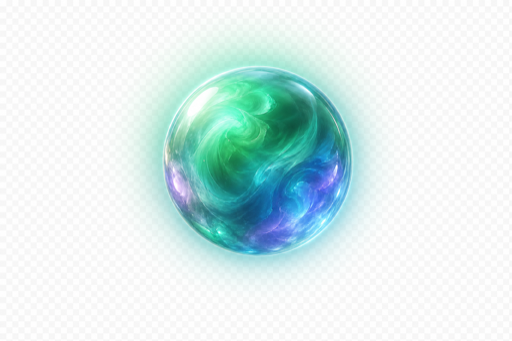
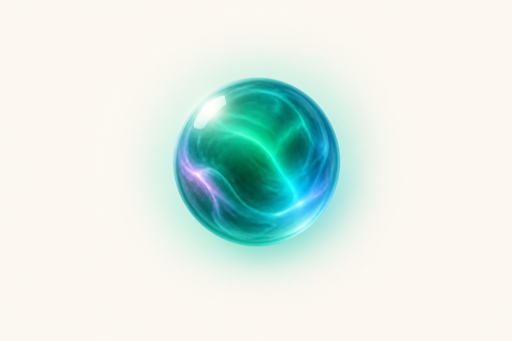
fix(agent): orb on cream backdrop + edge-feather mask (no rectangle box)
The generated transparent PNG had a baked checkerboard. Regenerate the
iridescent orb on a flat #FAF9F6 cream backdrop (matches page bg) and add a
radial mask so edges dissolve into the page seamlessly. Keeps breathing glow.

Changed region(s): [[0.2812, 0.1173, 0.7188, 0.7625]]

diff --git a/src/agent/components/AgentEmptyState.tsx b/src/agent/components/AgentEmptyState.tsx
@@ -19,26 +19,31 @@ export default function AgentEmptyState({ onSuggestion }: AgentEmptyStateProps) 
       {/* Greeting */}
       <div className="flex flex-col items-center text-center mb-6">
         <motion.div
-          className="relative mb-3 flex h-36 w-full items-center justify-center"
+          className="relative mb-2 flex h-40 w-full items-center justify-center"
           initial={{ opacity: 0, scale: 0.85 }}
           animate={{ opacity: 1, scale: 1 }}
           transition={{ duration: 0.7, ease: [0.22, 1, 0.36, 1] }}
         >
-          {/* Breathing teal-green glow behind the orb */}
+          {/* Breathing teal glow — gives the orb living, pulsing energy */}
           <motion.div
-            className="absolute h-32 w-32 rounded-full blur-3xl"
-            style={{ background: 'radial-gradient(circle, rgba(45,212,191,0.4) 0%, rgba(56,189,248,0.18) 50%, transparent 72%)' }}
-            animate={{ opacity: [0.4, 0.75, 0.4], scale: [0.9, 1.12, 0.9] }}
+            className="absolute h-40 w-40 rounded-full blur-3xl"
+            style={{ background: 'radial-gradient(circle, rgba(45,212,191,0.30) 0%, rgba(56,189,248,0.12) 55%, transparent 75%)' }}
+            animate={{ opacity: [0.35, 0.7, 0.35], scale: [0.92, 1.1, 0.92] }}
             transition={{ duration: 5, repeat: Infinity, ease: 'easeInOut' }}
           />
-          {/* The iridescent synthesis orb — pulses with contained energy */}
+          {/* The iridescent synthesis orb. Radial mask feathers the edges so the
+              cream backdrop dissolves seamlessly into the page (no hard rectangle). */}
           <motion.img
             src="/agent-orb.png"
             alt=""
             aria-hidden
             draggable={false}
-            className="relative h-36 w-auto select-none drop-shadow-[0_6px_24px_rgba(13,148,136,0.35)]"
-            animate={{ scale: [1, 1.045, 1] }}
+            className="relative h-40 w-auto select-none"
+            style={{
+              WebkitMaskImage: 'radial-gradient(circle, #000 56%, transparent 74%)',
+              maskImage: 'radial-gradient(circle, #000 56%, transparent 74%)',
+            }}
+            animate={{ scale: [1, 1.04, 1] }}
             transition={{ duration: 6, repeat: Infinity, ease: 'easeInOut' }}
           />
         </motion.div>